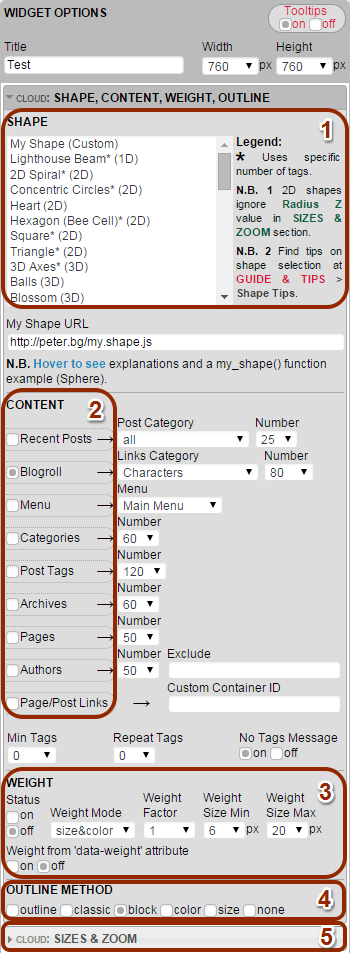
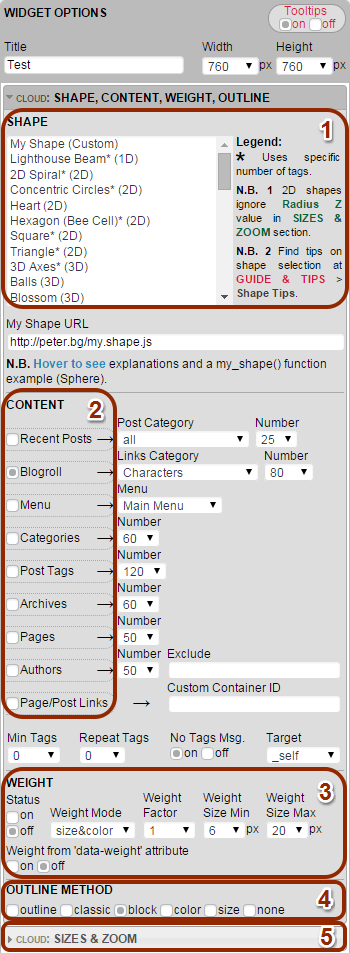
New versions: Added a Target option that determines where to open tag cloud links. Available for Authors, Blogroll, Pages and Recent Posts.
git-svn-id: https://plugins.svn.wordpress.org/my-wp-tagcanvas/trunk@1208873 b8457f37-d9ea-0310-8a92-e5e31aec5664

Changed region(s): [[0.2286, 0.7608, 0.9714, 0.8216], [0.1429, 0.7912, 0.1714, 0.8216]]

diff --git a/help/s.user.guide.htm b/help/s.user.guide.htm
@@ -38,7 +38,7 @@
 						<span style='font-size:16pt;'>3D WP Tag Cloud-S User Guide</span>
 					</b>
 					<br>
-					<span style='font-size:14pt;'>Version 4.6</span>
+					<span style='font-size:14pt;'>Version 4.6.2</span>
 					<br>
 					<a href="https://wordpress.org/plugins/my-wp-tagcanvas/" target="_blank">https://wordpress.org/plugins/my-wp-tagcanvas/</a>
 				</p>

diff --git a/3D.WP.Tag.Cloud.S.php b/3D.WP.Tag.Cloud.S.php
@@ -3,7 +3,7 @@
 Plugin Name: 3D WP Tag Cloud-S
 Plugin URI: http://peter.bg/archives/7373
 Description: This is the Single Cloud variation of 3D WP Tag Cloud. It Creates multiple instances widget that draws and animates a HTML5 canvas based tag cloud. Plugin may rotate Pages, Recent Posts, Blogroll (External Links), Menus, Blog Archives, List of Authors, Current Page/Post Links, Links from a custom HTML container, Post Tags and Post Categories. Supports following shapes: parabolic ANTENNA, AXES, lighthouse BEAM, BALLS, BLOSSOM, BULB, CANDY, CAPSULE, concentric CIRCLES, CROWN, CUBE, CYLINDER that starts off horizontal, CYLINDER that starts off vertical, DNA, DOMES, EGG, Christmas FIR, GLASS, GLOBE of rings, HEART, HEXAGON (bee cell), KNOT, LEMON, LOVE, PEG TOP that starts off horizontal, PEG TOP that starts off vertical, PYRAMID (tetrahedron), RING that starts off horizontal, RING that starts off vertical, RINGS knotwork, ROLLER of rings, SANDGLASS, SATURN, SPHERE, SPIRAL, SPRING, SQUARE, STAIRECASE, STOOL, TIRE, TOWER of rings and TRIANGLE. Supports also multiple shape selection for automatic shape transitions during rotation and usage of a customer defined shape. Able to rotate clouds around all three axes. Option values are preset and don't have to be typed but selected. Multiple fonts, multiple colors and multiple backgrounds can be applied to the cloud content. Full variety of fonts from Google Font Library is available. The plugin allows creating clouds of images. In case of Recent posts, Pages, Menu, List of Authors, Blogroll (External Links), Page/Post Links and custom HTML container tags may consist of both image and text. It gives an option to put images and/or text in the center of the cloud. It accepts background images as well. The Number of tags in the cloud is adjustable. The plugin automatically includes WP Links panel for users who started using WP since v 3.5, when Links Manager and blogroll were made hidden by default. 3D WP Tag Cloud uses Graham Breach's Javascript class TagCanvas v. 2.7 and includes all its 80+ options in the Control Panel settings.
-Version: 4.6.1
+Version: 4.6.2
 Author: Peter Petrov
 Author URI: http://peter.bg
 Update Server: http://peter.bg/
@@ -57,7 +57,7 @@ License: LGPL v3
 						$lin_args = array ('category' => $links_category_id, 'hide_invisible' => 0, 'limit' => $links); 
 						$bookmarks = get_bookmarks($lin_args);
 						foreach( $bookmarks as $bookmark ){
-							echo '<a href="' . $bookmark->link_url . '">';
+							echo '<a href="' . $bookmark->link_url . '" target="' . $target . '">';
 							if ($bookmark->link_image) { echo '<img src="' .$bookmark->link_image . '" width="96" height="96">';}
 							echo  $bookmark->link_name . '</a>';
 						}
@@ -73,8 +73,8 @@ License: LGPL v3
 						$args= array ('numberposts' => $recent_posts, 'category' => $rp_category_id); $recent_posts = wp_get_recent_posts($args); 
 						foreach( $recent_posts as $recent ){
 							$count=$count+1; $font_size=round($bigest-$increment*$count); 
-							if($weight_mode != "none") {echo '<a href="' . get_permalink($recent["ID"]) . '" style="font-size: ' . $font_size . 'px;">' . get_the_post_thumbnail( $recent["ID"], 'thumbnail' ), $recent["post_title"].'</a> ';}
-							else {echo '<a href="' . get_permalink($recent["ID"]) . '">' . get_the_post_thumbnail( $recent["ID"], 'thumbnail' ), $recent["post_title"].'</a> ';};
+							if($weight_mode != "none") {echo '<a href="' . get_permalink($recent["ID"]) . '" style="font-size: ' . $font_size . 'px;" target="' . $target . '">' . get_the_post_thumbnail( $recent["ID"], 'thumbnail' ), $recent["post_title"].'</a> ';}
+							else {echo '<a href="' . get_permalink($recent["ID"]) . '" target="' . $target . '">' . get_the_post_thumbnail( $recent["ID"], 'thumbnail' ), $recent["post_title"].'</a> ';};
 						};
 						break;
 					case "archives":
@@ -89,13 +89,13 @@ License: LGPL v3
 							$userLName = $user->last_name;
 							$userPosts = count_user_posts($user->ID);
 							$userPostsURL = get_author_posts_url($user->ID);
-							echo '<a href="'.$userPostsURL.'" style="font-size: '.$userPosts.'px">'.$userAvatar, $userFName.'<br>'.$userLName.'<br>('.$userPosts.')</a>';
+							echo '<a href="'.$userPostsURL.'" style="font-size: '.$userPosts.'px" target="' . $target . '">'.$userAvatar, $userFName.'<br>'.$userLName.'<br>('.$userPosts.')</a>';
 						};	
 						break;
 					case "pages":
 						$args = array('number' => $pages_limit); $pages = get_pages($args);
 						foreach( $pages as $page ){
-							echo '<a href="' . get_page_link( $page->ID ) . '">' . get_the_post_thumbnail( $page->ID, 'thumbnail' ), $page->post_title . '</a>';
+							echo '<a href="' . get_page_link( $page->ID ) . '" target="' . $target . '">' . get_the_post_thumbnail( $page->ID, 'thumbnail' ), $page->post_title . '</a>';
 						};
 						break;
 					case "pp_links":
@@ -158,6 +158,7 @@ License: LGPL v3
 		$tag_option['rp_category_id'] = $new_instance['rp_category_id'];
 		$tag_option['recent_posts'] = $new_instance['recent_posts'];
 		$tag_option['tags'] = $new_instance['tags'];
+		$tag_option['target'] = $new_instance['target'];
 		$tag_option['taxonomy'] = $new_instance['taxonomy'];
 		$tag_option['text_color_cf'] = $new_instance['text_color_cf'];
 		$tag_option['text_line_1'] = $new_instance['text_line_1'];
@@ -299,6 +300,7 @@ License: LGPL v3
 			'recent_posts' => '10',
 			'rp_category_id' => '',
 			'tags' => '45',
+			'target' => '_self',
 			'taxonomy' => 'post_tag',
 			'text_color_cf' => '000',
 			'text_line_1' => 'Fill up',

diff --git a/s.CP.php b/s.CP.php
@@ -958,22 +958,22 @@
 			<tr>
 				<td colspan="2" style="border-bottom: 1px solid #aaa;">
 					<div class="thick-spacer"></div>
-					<div style="float: left; margin: 0 53px 0 0;" title="The minimum number of tags to show in the cloud. If the number of links available is lower than this value, the list will be repeated. The <span class='green'>Repeat Tags</span> option takes precedence over <span class='green'>Min Tags</span>. Shapes marked with an asterisk (*) may use the nearest downward value.">
+					<div style="float: left; margin: 0 18px 0 0;" title="The minimum number of tags to show in the cloud. If the number of links available is lower than this value, the list will be repeated. The <span class='green'>Repeat Tags</span> option takes precedence over <span class='green'>Min Tags</span>. Shapes marked with an asterisk (*) may use the nearest downward value.">
 						Min Tags
 						<br>
 						<select id="<?=$this->get_field_id('min_tags'); ?>" name="<?=$this->get_field_name('min_tags'); ?>">
 							<?php for($i=0; $i<201; $i++){echo '<option id="mint_' . $i . '" value="' . $i . '"'; if($min_tags==$i){echo ' selected';}; echo '>' . $i . '</option>'; } ?>
 						</select>
 					</div>
-					<div style="float: left; margin: 0 53px 0 0;" title="The number of times to repeat the list of tags in the cloud. This option overrides the <span class='green'>Min Tags</span> option. Shapes marked with an asterisk (*) may use the nearest downward to the result value.">
+					<div style="float: left; margin: 0 18px 0 0;" title="The number of times to repeat the list of tags in the cloud. This option overrides the <span class='green'>Min Tags</span> option. Shapes marked with an asterisk (*) may use the nearest downward to the result value.">
 						Repeat Tags
 						<br>
 						<select id="<?=$this->get_field_id('repeat_tags'); ?>" name="<?=$this->get_field_name('repeat_tags'); ?>">
 							<?php for($i=0; $i<65; $i++){echo '<option id="rept_' . $i . '" value="' . $i . '"'; if($repeat_tags==$i){echo ' selected';}; echo '>' . $i . '</option>'; } ?>
 						</select>
 					</div>
-					<div style="float: left;" title="Displays “No tags” instead of an empty canvas when there are no tags available.">
-						No Tags Message
+					<div style="float: left; margin: 0 18px 0 0;" title="Displays “No tags” instead of an empty canvas when there are no tags available.">
+						No Tags Msg.
 						<br>
 						<input style="margin: 0 1px 0 0;" class="radio" id="<?=$this->get_field_id('no_tags_msg'); ?>"
 						name="<?=$this->get_field_name('no_tags_msg'); ?>" type="radio" value="true"
@@ -982,6 +982,16 @@
 						<input style="margin: 0 1px 0 0;" class="radio" id="<?=$this->get_field_id('no_tags_msg'); ?>"
 						name="<?=$this->get_field_name('no_tags_msg'); ?>" type="radio" value="false"
 						<?php if( $no_tags_msg == "false" ){ echo ' checked="checked"'; } ?>>off
+					</div>
+					<div style="float: left; margin: 0;" title="The target option specifies where to open <span class='green'>Authors</span>, <span class='green'>Blogroll</span>, <span class='green'>Pages</span> and <span class='green'>Recent Posts</span> tag links:<br><br><span class='green'>_blank</span> - in a new window or tab;<br><span class='green'>_parent</span> - in the parent frame;<br><span class='green'>_self</span> - in the same frame as it was clicked (default);<br><span class='green'>_top</span> - in the full body of the window.">
+						Target
+						<br>
+						<select id="<?=$this->get_field_id('target'); ?>" name="<?=$this->get_field_name('target'); ?>">
+							<option value="_blank" <?php if( $target == "_blank" ){ echo ' selected'; } ?>>_blank</option>
+							<option value="_parent" <?php if( $target == "_parent" ){ echo ' selected'; } ?>>_parent</option>
+							<option value="_self" <?php if( $target == "_self" ){ echo ' selected'; } ?>>_self</option>
+							<option value="_top" <?php if( $target == "_top" ){ echo ' selected'; } ?>>_top</option>
+						</select>
 					</div>
 					<div class="thin-spacer"></div>
 				</td>

diff --git a/s.variables.php b/s.variables.php
@@ -37,6 +37,7 @@
 			$recent_posts = $instance['recent_posts'];
 			$rp_category_id = $instance['rp_category_id'];
 			$tags = $instance['tags'];
+			$target = $instance['target'];
 			$taxonomy = $instance['taxonomy'];
 			$text_color_cf = $instance['text_color_cf'];
 			$text_cont = $instance['text_cont'];
